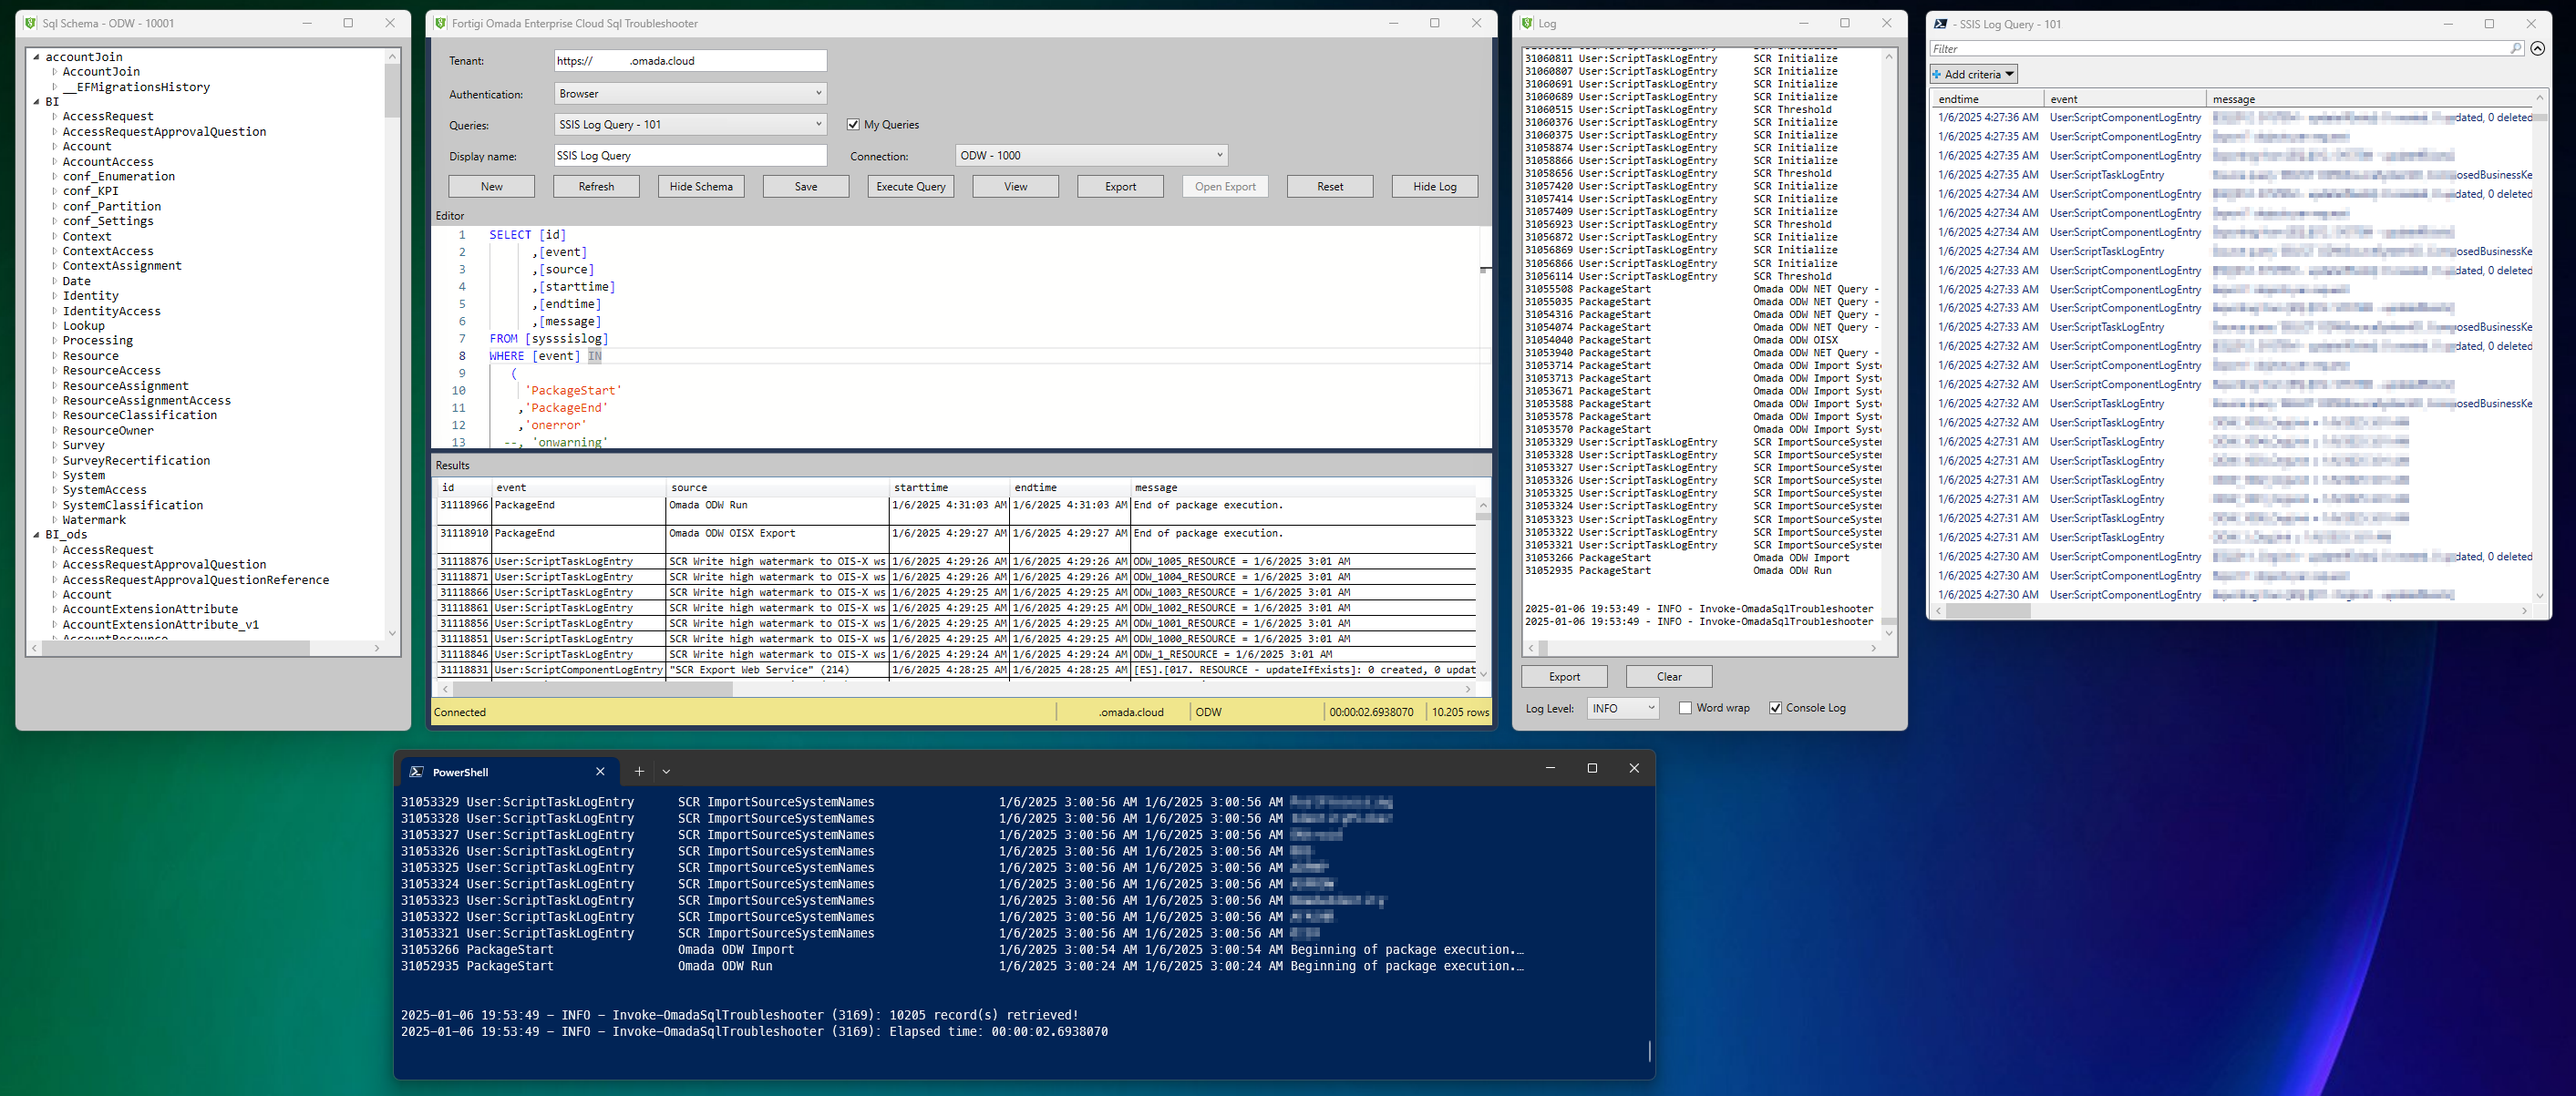
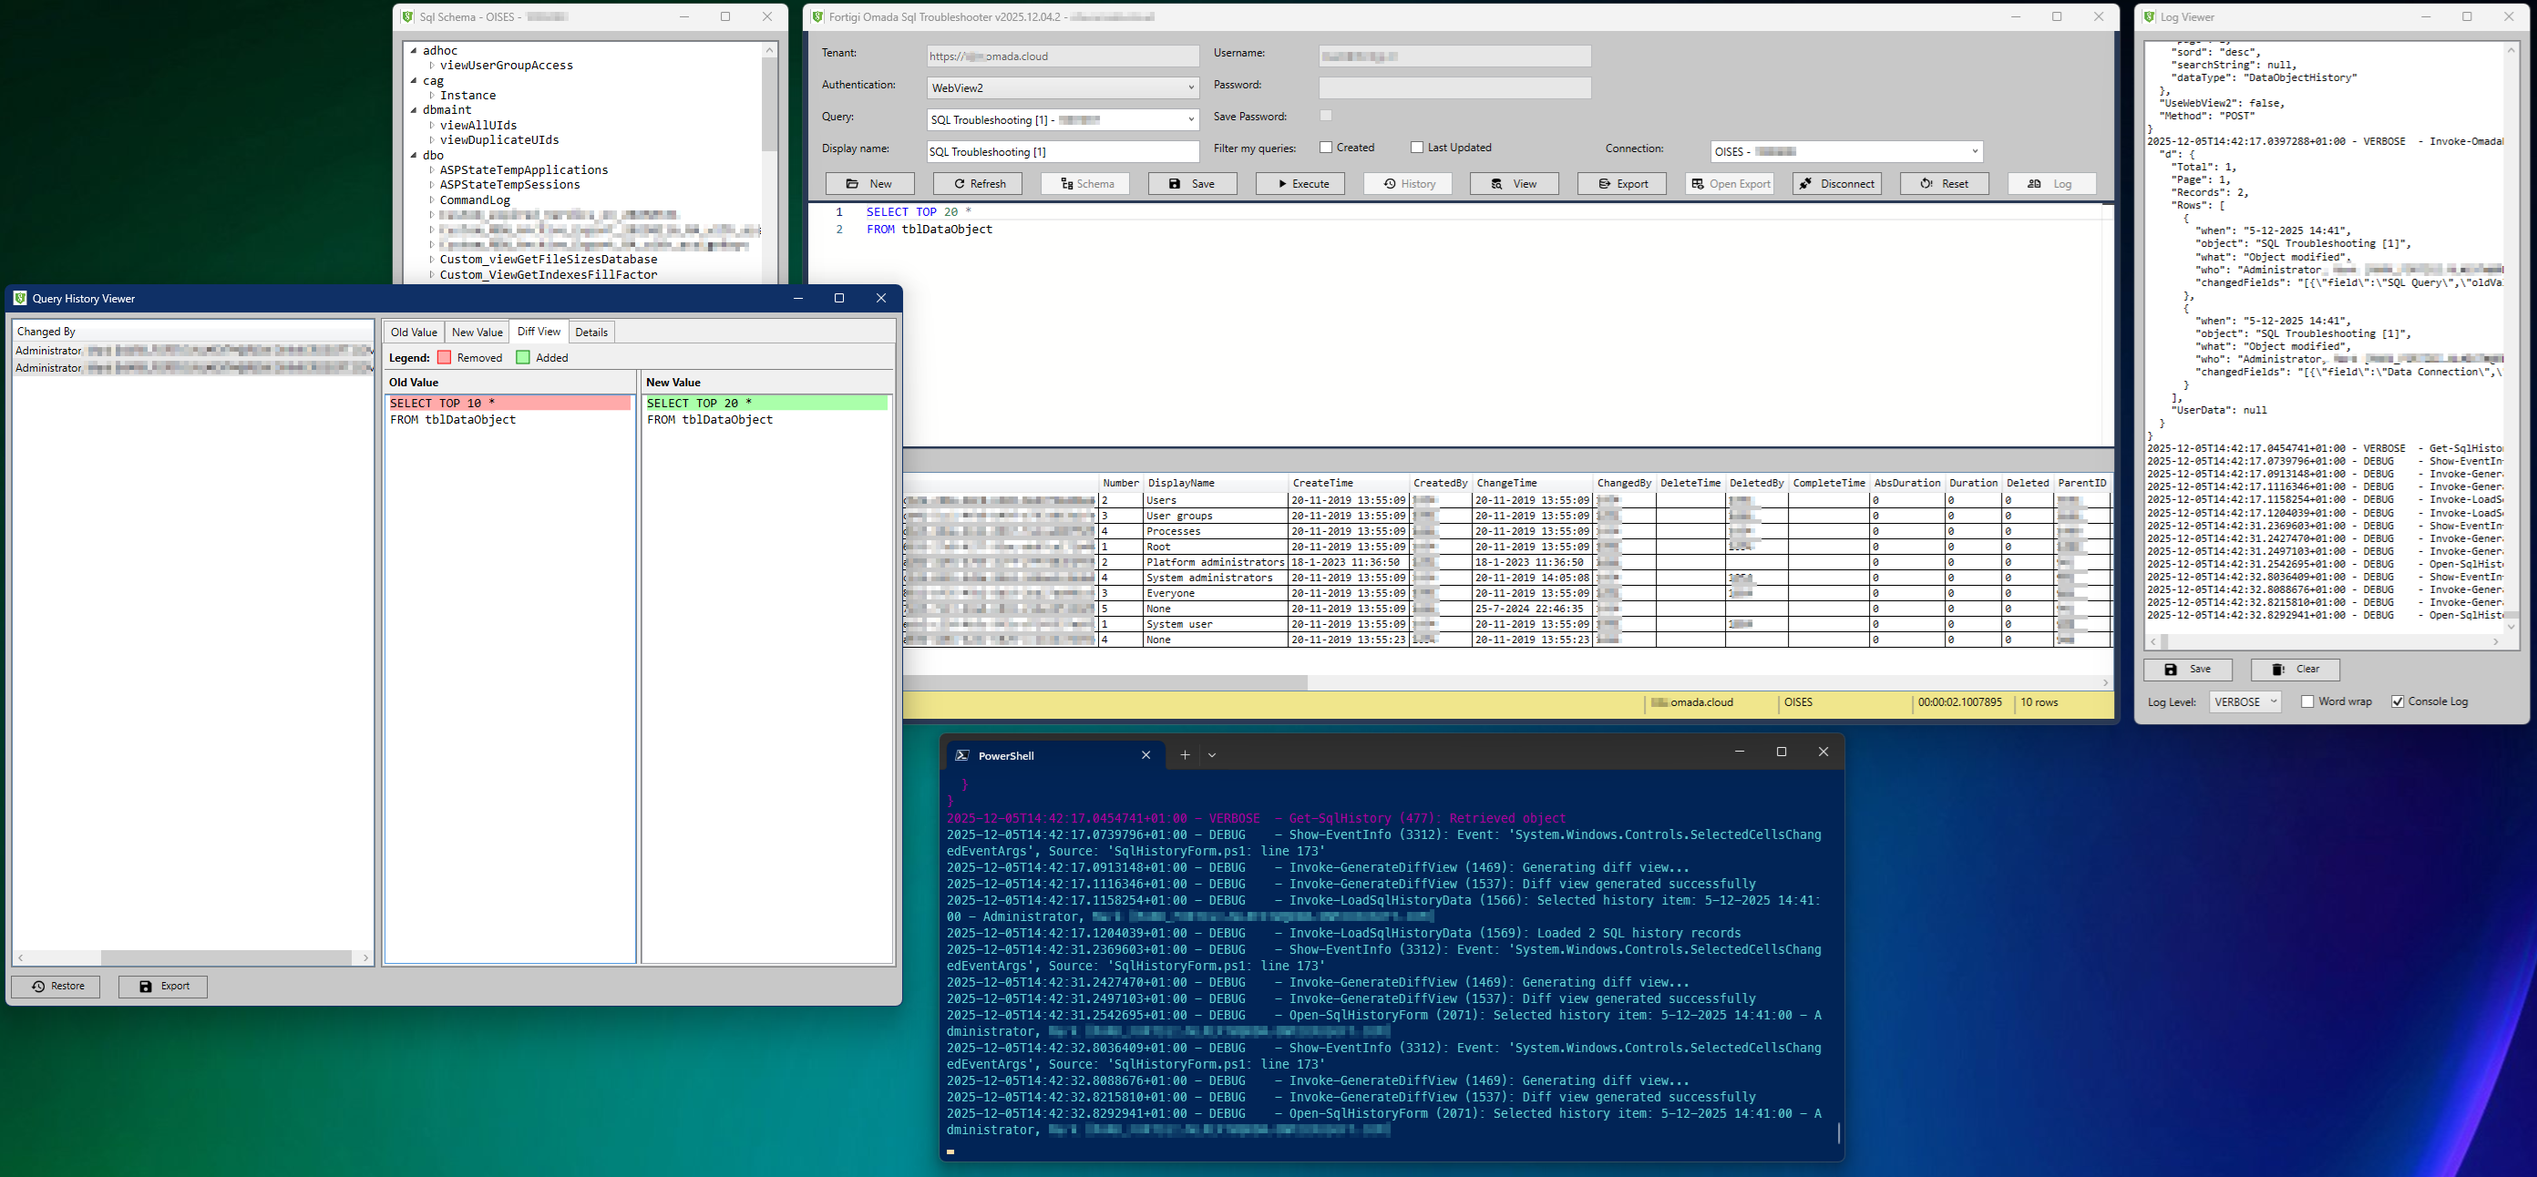
Updated documentation

diff --git a/README.md b/README.md
@@ -17,19 +17,34 @@ OmadaSqlTroubleshooter is a PowerShell Module that contains an interactive deskt
     - Text.
 - Save queries without executing;
 - Basic IntelliSense for Sql, tables and columns;
-- Schema view with the ability to enter the selected item in the editor (SHIFT + Select Table/Column).
+- Schema view with the ability to enter the selected item in the editor (SHIFT + Select Table/Column);
+- Select you query or connection while typing in the related input field;
+- Filter queries while typing into the
+- Query history view:
+    - Browse history;
+    - Restore query from history;
+    - Compare changes for each updated query;
+    - Export historic queries to:
+        - json;
+        - csv;
+        - txt.
 - Detailed logging to log window and console;
 - Authentication options:
     - Browser: Browser based on Selenium;
     - WebView2: Browser based on WebView2;
     - OAuth: OAuth2 based authentication (Only Entra ID is currently supported).
-- Auto complete connection url. Eg. Tenant name completes to https://tenantname.omada.cloud.
-- Automatic storing of the current application state, e.g. current connection, current query, application layout, etc.
+- Auto complete connection url. Eg. Tenant name completes to https://tenantname.omada.cloud;
+- Automatic storing of the current application state, e.g. current connection, current query, application layout, etc;
+- Option to store your credentials. When using Browser/WebView2 based authentication with Enter ID it is even able to enter your credentials automatically;
+- Keyboard shortcuts:
+  - F5: Execute query;
+  - Enter/Return after entering connection information: Initiate connection;
+  - CTRL + S: Save current query in Omada.
 
 This application leverages the permissions of the user that is logged in. The application uses the built-in OData endpoint (C_P_SQLTROUBLESHOOTING) for the SQL Troubleshooter and the Omada Enterprise Server API.
 
 > [!IMPORTANT]
-> The C_P_SQLTROUBLESHOOTING OData endpoint is disabled by default. Enabled it in the Data Object Type configuration in Omada in order to use this application.
+> The C_P_SQLTROUBLESHOOTING OData endpoint is disabled by default. Enabled it in the Data Object Type configuration in Omada in order to use this application. Also make sure that you have the correct user permissions to Create, Read and Modify objects via OData.
 
 > [!IMPORTANT]
 > Authentication is handled by the OmadaWeb.PS PowerShell module. This module must be installed before running the application. OmadaWeb.PS can simply be installed using this command:
@@ -52,9 +67,10 @@ Install-Module -Name OmadaSqlTroubleshooter
 This module requires:
 - Windows operating system;
 - PowerShell 7;
-- [OmadaWeb.PS PowerShell Module](https://www.powershellgallery.com/packages/omadaweb.ps) (Version 2025.10.9.1 or higher);
+- [OmadaWeb.PS PowerShell Module](https://www.powershellgallery.com/packages/omadaweb.ps) (Version 2025.12.2.1 or higher);
 - [Microsoft Edge WebView2](https://developer.microsoft.com/en-us/microsoft-edge/webview2);
-- Omada Identity Cloud with OData enabled for the C_P_SQLTROUBLESHOOTING data object type.
+- Omada Identity Cloud with OData enabled for the C_P_SQLTROUBLESHOOTING data object type;
+- Create, Read and Modify user permissions for OData.
 
 > [!NOTE]
 > If you are not able to install Microsoft Edge Webview2 you can download the Fixed Version x64 bit from [here](https://developer.microsoft.com/en-us/microsoft-edge/webview2). Extract the Cab file using e.g. 7-Zip, copy the contents from folder ```'Microsoft.WebView2.FixedVersionRuntime.xxxx.x64'``` to ```%LOCALAPPDATA%\OmadaSqlTroubleshooter\bin\Webview2Runtime```. The contents of the target folder should now like as shown in the image below.
